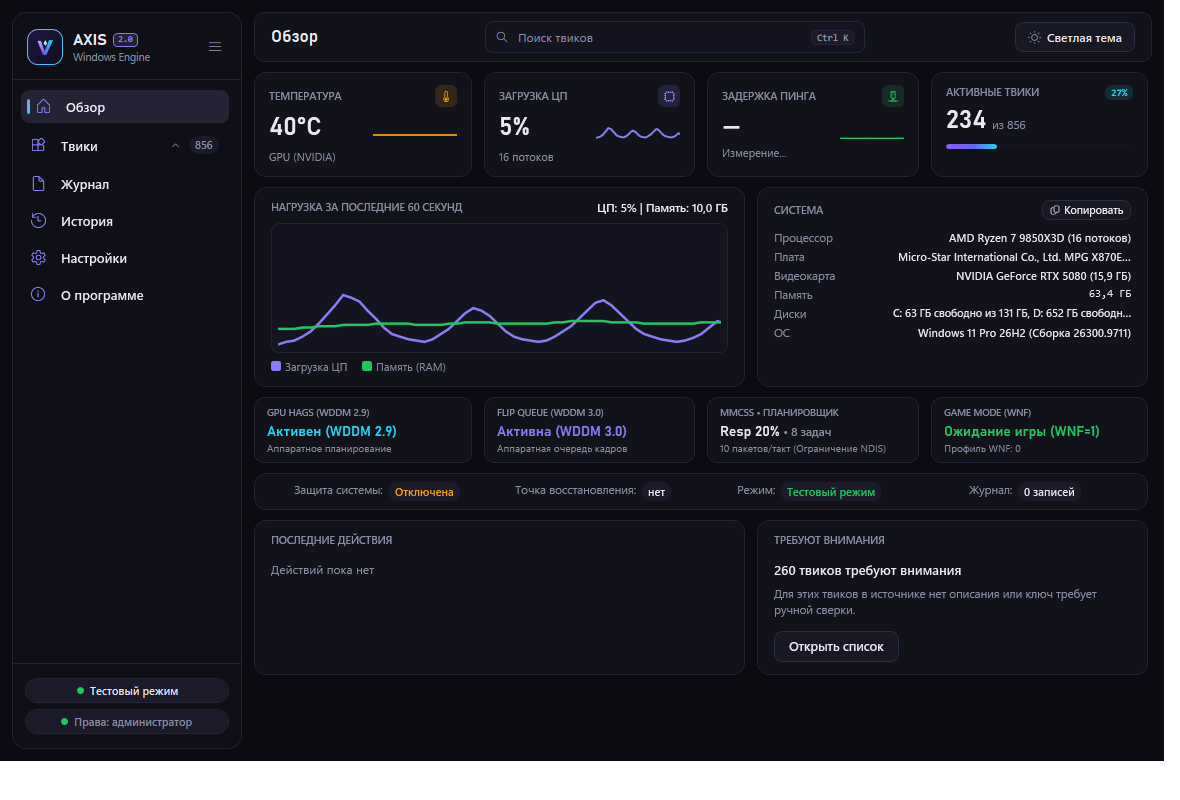
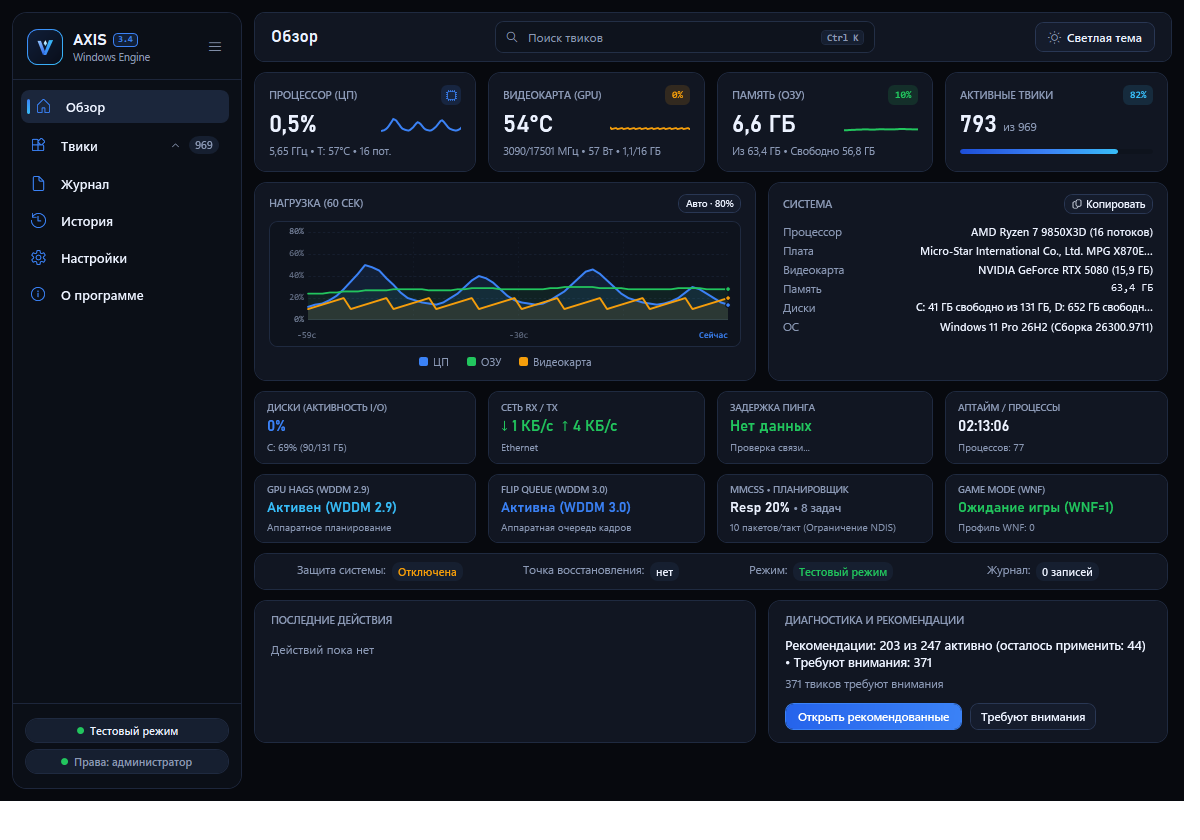
docs(v3.4.0): add 2026 Bento DESIGN_SYSTEM.md, sync README/AGENTS/CHANGELOG/PROJECT_STATE & refresh UI screenshots

diff --git a/README.ru.md b/README.ru.md
@@ -2,10 +2,10 @@
 
 [English](README.md) | [Русский](README.ru.md)
 
-[![Release: v3.3.0](https://img.shields.io/badge/Release-v3.3.0-2563eb.svg)](https://github.com/Vektor010/axis/releases)
-[![Tests: 8039 PASS](https://img.shields.io/badge/Tests-8039%20PASS-22c55e.svg)](tests/)
-[![Tweaks: 888](https://img.shields.io/badge/Tweaks-888-3b82f6.svg)](data/tweaks.json)
-[![Binary: Clean 1.40 MB](https://img.shields.io/badge/Binary-1.40%20MB-38bdf8.svg)](dist/Axis.exe)
+[![Release: v3.4.0](https://img.shields.io/badge/Release-v3.4.0-2563eb.svg)](https://github.com/Vektor010/axis/releases)
+[![Tests: 8852 PASS](https://img.shields.io/badge/Tests-8852%20PASS-22c55e.svg)](tests/)
+[![Tweaks: 969](https://img.shields.io/badge/Tweaks-969-3b82f6.svg)](data/tweaks.json)
+[![Binary: Clean 1.55 MB](https://img.shields.io/badge/Binary-1.55%20MB-38bdf8.svg)](dist/Axis.exe)
 [![License: MIT](https://img.shields.io/badge/License-MIT-blue.svg)](LICENSE)
 
 > **AXIS** — современный, автономный соревновательный оптимизатор ядра, видеоподсистемы (WDDM/NVML), сетевого стека (TCP BBR2) и приватности Windows 10/11.
@@ -52,22 +52,22 @@
 
 ---
 
-## 🧭 Каталог оптимизаций AXIS (856 параметров в 12 категориях)
+## 🧭 Каталог оптимизаций AXIS (969 параметров в 12 категориях)
 
 | Категория | Количество | Что оптимизирует |
 | :--- | :---: | :--- |
-| ⚙ **Система** | 193 | Приоритезация игровых задач (MMCSS), разгрузка шедулера, снижение лагов ядра Windows. |
-| 🔒 **Конфиденциальность** | 199 | Отключение фоновой телеметрии, диагностических отчётов, маяков и скрытого сбора данных. |
-| 🛡 **Безопасность** | 140 | Изоляция системных процессов, динамическая блокировка, тонкая настройка Защитника Windows. |
-| 📁 **Проводник** | 83 | Компактный вид папок, удаление ненужных пунктов контекстного меню, быстрый поиск. |
-| 🌐 **Сеть и Интернет** | 79 | Алгоритмы TCP BBR2/CUBIC, отключение задержки Nagle, мгновенный сброс кэша DNS, RSS/RSC. |
-| 🖱 **Периферия и ввод** | 61 | Нулевой инпут-лаг, прямое считывание 1:1 для мыши и клавиатуры, оптимизация Logitech G HUB. |
-| ⚡ **Электропитание** | 46 | Отключение скрытой парковки ядер, схема Ultimate Performance, прецизионные таймеры. |
-| 🗑 **Очистка системы** | 16 | Экспресс-очистка временных файлов, кэша шейдеров DirectX, корзины и истории сети. |
-| 🎮 **Графика NVIDIA** | 14 | Управление D3D/DXGI Flip Queue, запуск панели NVIDIA строго по требованию. |
-| 🕹 **Клиент Steam** | 8 | Отключение встроенного веб-хелпера CEF, фонового аппаратного H.264 и автозапуска overlay. |
-| 🧠 **Аффинити ядер ЦП** | 5 | Изоляция Core 0 для системных прерываний, устранение микрофризов и просадок 1% Low FPS. |
-| 🛠 **Разное (Misc/RTSS)** | 12 | Отключение фонового автозапуска RivaTuner Statistics Server (RTSS), системные твики. |
+| ⚙ **Система** | 231 | Планировщик MMCSS, службы/драйверы (`57`), задачи планировщика (`18` через COM), задержки DPC. |
+| 🔒 **Конфиденциальность** | 211 | Отключение фоновой телеметрии, диагностических отчётов, маяков и скрытого сбора данных. |
+| 🛡 **Безопасность** | 147 | Изоляция системных процессов, динамическая блокировка, тонкая настройка Защитника Windows. |
+| 📁 **Проводник** | 88 | Компактный вид папок, удаление ненужных пунктов контекстного меню, быстрый поиск. |
+| 🌐 **Сеть и Интернет** | 94 | Алгоритмы TCP BBR2/CUBIC, отключение задержки Nagle, шифрованный DNS, отвязка `ms_tcpip6`, RSS/RSC. |
+| 🖱 **Периферия и ввод** | 73 | Нулевой инпут-лаг, прямое считывание 1:1 для мыши и клавиатуры, оптимизация Logitech G HUB. |
+| ⚡ **Электропитание** | 51 | Отключение парковки ядер, схема Noverse High Performance, отключение энергосбережения NIC/Storage. |
+| 🗑 **Очистка системы** | 16 | Экспресс-очистка временных файлов, кэша шейдеров DirectX, корзины и журналов. |
+| 🎮 **Графика NVIDIA** | 16 | Профиль NV-Minimal DRS (`nvapi64.dll`), управление D3D/DXGI Flip Queue, NVCPL по требованию. |
+| 🕹 **Клиент Steam** | 18 | Отключение веб-хелпера CEF, фоновой записи, твики `localconfig.vdf` и автозапуска. |
+| 🧠 **Аффинити ядер ЦП** | 5 | Изоляция Core 0 для системных прерываний и перераспределение IRQ. |
+| 🛠 **Разное (Misc/App)** | 19 | Телеметрия и автозапуск фоновых утилит (`RTSS`, `Spotify`, `VS Code`, `Brave`, `SteelSeries`). |
 
 ---
 
@@ -88,12 +88,12 @@
   ```
   *Компилирует флагманский бинарник `dist\Axis.exe` и консольный тест-раннер `dist\Tests.exe`.*
 
-- **Автоматизированное тестирование (7760 тестов, 13 сьюитов)**:
+- **Автоматизированное тестирование (8852 тестов, все сьюиты)**:
   ```cmd
   dist\Tests.exe
   ```
 
-- **Комплексная верификация (AST, база 856 твиков, SHA-256 embed parity)**:
+- **Комплексная верификация (AST, база 969 твиков, SHA-256 embed parity)**:
   ```powershell
   powershell -ExecutionPolicy Bypass -File .\verify-all.ps1
   ```
@@ -106,7 +106,7 @@
 
 | Раздел | Документы | Описание |
 | :--- | :--- | :--- |
-| **Архитектура** | [Архитектура](docs/architecture/ARCHITECTURE.md) • [Архитектурные решения (ADR)](docs/architecture/DECISIONS.md) | Модель изоляции `state.json`, подсистемы WDDM/MMCSS, стек WPF |
+| **Архитектура и Дизайн** | [Дизайн-система 2026](docs/architecture/DESIGN_SYSTEM.md) • [Архитектура](docs/architecture/ARCHITECTURE.md) • [Архитектурные решения (ADR)](docs/architecture/DECISIONS.md) | Палитры и токены 2026, сетка Bento, правила осциллографа, изоляция `state.json`, стек WPF |
 | **Разработка** | [Разработка и сборка](docs/development/DEVELOPMENT.md) • [Руководство контрибьютора](docs/development/CONTRIBUTING.md) | Требования к C# 5.0, команды сборки и стандарты PR |
 | **Проект** | [Текущее состояние](docs/project/PROJECT_STATE.md) • [История изменений](docs/project/CHANGELOG.md) • [Планы развития](docs/project/ROADMAP.md) • [Известные проблемы](docs/project/KNOWN_ISSUES.md) | Операционные метрики, чейнджлог и задокументированные ограничения |
 | **Безопасность** | [Политика безопасности](docs/security/SECURITY.md) | Стандарты безопасного изменения реестра и гарантии отката |

diff --git a/docs/architecture/DESIGN_SYSTEM.md b/docs/architecture/DESIGN_SYSTEM.md
@@ -1,0 +1,84 @@
+# AXIS Design System 2026 (Bento UI & Telemetry Standard)
+
+> Single source of truth for contributors, UI engineers, and AI agents extending **AXIS** (`MainWindow.xaml`, `App.xaml`, `AxisDialogWindow.xaml`, `MainViewModel.cs`).
+
+---
+
+## 1. Visual Philosophy
+
+AXIS follows an **Obsidian & Cobalt Engineering Bento** aesthetic inspired by modern hardware telemetry instruments:
+- **Zero visual clutter**: Every label, badge, and divider must earn its pixels. Never duplicate live values across card headers and legends when already displayed cleanly in dedicated cards.
+- **Pixel-exact row symmetry**: Sibling Bento cards in the same grid row MUST stretch evenly (`VerticalAlignment="Stretch"`) and use fixed-row inner `<Grid>` definitions instead of `<StackPanel>`, guaranteeing identical header baselines, metric vertical centers, and footer alignment across all DPI scales.
+- **No jarring focus/outer blue borders**: Dialog windows, hero panels, Selected DataGrid rows, and cards use subtle graphite borders (`CardBorder`), reserving Cobalt Blue (`AccentBrush`) strictly for interactive emphasis, primary action CTAs, and CPU series indicators.
+- **Dual-theme readiness**: Every UI surface binds exclusively via `{DynamicResource ...}` keys populated atomically by frozen `Brush` palettes in `App.xaml.cs` (`0.10 ms` switch latency, zero memory leaks). Every newly added color token MUST be added to both `BuildDarkPalette()` and `BuildLightPalette()` and frozen with `.Freeze()`.
+
+---
+
+## 2. Color Tokens (`App.xaml.cs`)
+
+| Token Key | Dark Theme (Default) | Light Theme | Usage |
+| :--- | :--- | :--- | :--- |
+| `WindowBg` | `#07090E` | `#F1F5F9` | Root viewport canvas |
+| `SidebarBg` | `#0B0F17` | `#E8EEF7` | Navigation rail background |
+| `SidebarBorder` | `#1D263B` | `#D3DCEB` | Navigation rail separator |
+| `CardBg` | `#111622` | `#FFFFFF` | Bento cards, panels, dialogs |
+| `CardBgHover` | `#171F30` | `#F6F9FE` | Interactive hover card fill |
+| `CardBorder` | `#1F2A40` | `#D8E1EF` | Default `1px` Bento / dialog stroke |
+| `CardBorderHover` | `#32456B` | `#B6C6DF` | Hovered border emphasis |
+| `TextPrimary` | `#ECF2FF` | `#0F172A` | Primary values, headings |
+| `TextSecondary` | `#8B99B5` | `#5B6B86` | Micro-labels, subtitles, units |
+| `AccentBrush` | `#3B82F6` | `#2563EB` | Primary CTA, **CPU** series, active nav |
+| `AccentFill` | `#243B82F6` | `#1F2563EB` | Translucent accent pills / icon chips |
+| `CyanAccentBrush` | `#38BDF8` | `#0284C7` | Kernel subsystem highlights (`HAGS`, active tweak badges) |
+| `SuccessBrush` | `#22C55E` | `#16A34A` | Optimal state, **RAM** series, Network RX/TX & Ping |
+| `WarningBrush` | `#F59E0B` | `#D97706` | Caution badges, **GPU (Видеокарта)** sparkline & curve |
+| `DangerBrush` | `#EF4444` | `#DC2626` | Revert / risk / destructive warnings |
+| `SearchBg` | `#0E131D` | `#FFFFFF` | Chart canvas backing & input fields |
+| `BadgeBg` | `#161F30` | `#E7EEF9` | Neutral pill background |
+
+---
+
+## 3. Typography (`App.xaml`)
+
+| Resource Key | Font Family Stack | Strict Usage Rules |
+| :--- | :--- | :--- |
+| `FontDisplay` | `Bahnschrift, Segoe UI Variable Display, Segoe UI` | **All** primary dashboard metric numbers across every card row (`24pt` in Row 1, `15pt` in Row 3, `14pt` in Row 4) — never mix `FontMono` and `FontDisplay` for sibling metrics in the same row. |
+| `FontUI` | `Segoe UI Variable Text, Segoe UI` | Card titles (`9.5–10.5pt` `SemiBold`), descriptions, buttons, legends (`11pt`), body copy. |
+| `FontMono` | `Cascadia Mono, Consolas` | Chart Y/X axis scale ticks (`8.8–9pt`), hover inspector readouts (`10pt`), status pills (`10pt` `Bold`), system RAM totals. |
+
+---
+
+## 4. Bento Grid Architecture (`MainWindow.xaml`)
+
+Dashboard Overview (`1200×840`, `MinWidth=1000`, `MinHeight=660`) uses balanced rows where every card uses an explicit 3-row `<Grid>` (`VerticalAlignment="Stretch"`):
+
+1. **Row 1 — Primary Live Cards (4 Columns, Equal Width `*`)**:
+   - Inner layout: `<Grid>` with Row `20` (Title + right icon/badge `Height="20"`), Row `38` (`FontDisplay 24pt` main metric + sparkline `Width="80" Height="26"`), Row `16` (`10.5pt` secondary status or `ProgressBar`).
+   - Cards: **ПРОЦЕССОР (ЦП)** (`AccentBrush`), **ВИДЕОКАРТА (GPU)** (`WarningBrush`), **ПАМЯТЬ (ОЗУ)** (`SuccessBrush`), **АКТИВНЫЕ ТВИКИ** (`CyanAccentBrush` progress bar).
+2. **Row 2 — Oscilloscope Chart + System Passport (`1.25*` Left / `*` Right)**:
+   - Both `<Border>` panels use `VerticalAlignment="Stretch"` so bottom borders align cleanly with zero empty gap under System specs.
+3. **Row 3 — Secondary Sensors (4 Columns `*`, Unified `FontDisplay 15pt`)**:
+   - Inner layout: Row `14` (`9.5pt SemiBold`), Row `24` (`FontDisplay 15pt SemiBold`), Row `15` (`10pt`).
+   - Cards: **ДИСКИ (АКТИВНОСТЬ I/O)**, **СЕТЬ RX / TX**, **ЗАДЕРЖКА ПИНГА** (sparkline `Height="18"`), **АПТАЙМ / ПРОЦЕССЫ**.
+4. **Row 4 — Native Kernel Subsystems (4 Columns `*`)**:
+   - Inner layout: Row `14`, Row `22` (`FontDisplay 14pt SemiBold`), Row `15`.
+   - Cards: **GPU HAGS (WDDM 2.9)**, **FLIP QUEUE (WDDM 3.0)**, **MMCSS • ПЛАНИРОВЩИК**, **GAME MODE (WNF)**.
+
+---
+
+## 5. Telemetry Oscilloscope Standard (`НАГРУЗКА (60 СЕК)`)
+
+1. **Zero-Lag Right-to-Left Fixed-Slot Conveyor**:
+   - Window fixed at `ChartSlotCount = 120` samples (`0.5s` default live cadence = `60s` window).
+   - New points enter cleanly from the right edge (`Сейчас`) with constant step spacing `stepX`, never horizontally stretching or compressing historical spikes.
+   - Avoid software-composited `OpacityMask` shaders on polygons; render lightweight frozen `PointCollection` polylines + `0.08–0.11` opacity area polygons for smooth 60 FPS updates.
+2. **Adaptive Y-Axis Scale (`Auto · Y%` vs `0–100%`)**:
+   - Steps strictly divisible by 4 (`[12, 16, 20, 40, 60, 80, 100]`) so all 4 grid quarters (`25%`, `50%`, `75%`, `100%`) yield clean integers with zero decimals.
+   - Left Y-axis labels occupy `34px` gutter cleanly aligned to `ChartPlotTop = 8`, `ChartPlotBottom = 96` (`usableH = 88`, `22px` grid step), leaving `24px` bottom strip for `-60с` / `-30с` / `Сейчас` without overlapping `0%`.
+3. **Strict Series Color & Localization Consistency**:
+   - Legend is horizontally centered under the chart (`HorizontalAlignment="Center"`) in unified Russian:
+     - **ЦП** → `AccentBrush` (Blue)
+     - **ОЗУ** → `SuccessBrush` (Green)
+     - **Видеокарта** → `WarningBrush` (Amber/Orange)
+4. **Single-Series Hover Crosshair**:
+   - `TrySampleChartAtX` snaps cursor X to sample index and identifies the **nearest vertical curve** to cursor Y, displaying only 1 highlighted dot + 1 concise badge tinted to that curve's brush (`ЦП · ...%`, `ОЗУ · ...% (... ГБ)`, or `Видеокарта · ...%`). `MouseMove` short-circuits whenever `(sampleIdx, seriesKey)` has not changed.

diff --git a/README.md b/README.md
@@ -2,10 +2,10 @@
 
 [English](README.md) | [Русский](README.ru.md)
 
-[![Release: v3.3.0](https://img.shields.io/badge/Release-v3.3.0-2563eb.svg)](https://github.com/Vektor010/axis/releases)
-[![Tests: 8039 PASS](https://img.shields.io/badge/Tests-8039%20PASS-22c55e.svg)](tests/)
-[![Tweaks: 888](https://img.shields.io/badge/Tweaks-888-3b82f6.svg)](data/tweaks.json)
-[![Binary: Clean 1.40 MB](https://img.shields.io/badge/Binary-1.40%20MB-38bdf8.svg)](dist/Axis.exe)
+[![Release: v3.4.0](https://img.shields.io/badge/Release-v3.4.0-2563eb.svg)](https://github.com/Vektor010/axis/releases)
+[![Tests: 8852 PASS](https://img.shields.io/badge/Tests-8852%20PASS-22c55e.svg)](tests/)
+[![Tweaks: 969](https://img.shields.io/badge/Tweaks-969-3b82f6.svg)](data/tweaks.json)
+[![Binary: Clean 1.55 MB](https://img.shields.io/badge/Binary-1.55%20MB-38bdf8.svg)](dist/Axis.exe)
 [![License: MIT](https://img.shields.io/badge/License-MIT-blue.svg)](LICENSE)
 
 > **AXIS** is a high-performance, standalone Windows 10/11 optimization suite designed for competitive esports players, system engineers, and enthusiasts.
@@ -51,22 +51,22 @@
 
 ---
 
-## 🧭 Tweak Catalog (856 Parameters Across 12 Categories)
+## 🧭 Tweak Catalog (969 Parameters Across 12 Categories)
 
 | Category | Count | Focus Area |
 | :--- | :---: | :--- |
-| ⚙ **System** | 193 | Multimedia Class Scheduler (MMCSS), scheduler quantum tuning, DPC latency. |
-| 🔒 **Privacy** | 199 | Diagnostic telemetry, feedback hub, activity history, and background beacons. |
-| 🛡 **Security** | 140 | Process isolation, dynamic lock, and Windows Defender tuning. |
-| 📁 **File Explorer** | 83 | Responsive shell layout, context menu simplification, folder view optimizations. |
-| 🌐 **Network & Internet** | 79 | TCP BBR2/CUBIC congestion providers, Nagle algorithm disabling, DNS cache flush, RSS/RSC. |
-| 🖱 **Peripherals & Input** | 61 | 1:1 raw mouse input, pointer precision curve normalization, HID input latency. |
-| ⚡ **Power Management** | 46 | Core unparking, Ultimate Performance overlay, precision timer resolution. |
+| ⚙ **System** | 231 | MMCSS scheduler tuning, services/drivers (`57`), scheduled tasks (`18` via COM), DPC latency. |
+| 🔒 **Privacy** | 211 | Diagnostic telemetry, feedback hub, activity history, and background beacons. |
+| 🛡 **Security** | 147 | Process isolation, UAC/SmartScreen, and Windows Defender tuning. |
+| 📁 **File Explorer** | 88 | Responsive shell layout, context menu simplification, folder view optimizations. |
+| 🌐 **Network & Internet** | 94 | TCP BBR2/CUBIC congestion providers, Nagle disabling, DNS encryption, RSS/RSC. |
+| 🖱 **Peripherals & Input** | 73 | 1:1 raw mouse input, pointer precision curve normalization, HID input latency. |
+| ⚡ **Power Management** | 51 | Core unparking, High/Ultimate Performance power plans, NIC power saving removal. |
 | 🗑 **System Cleanup** | 16 | Temporary caches, DirectX shader cache, crash dump purging. |
-| 🎮 **NVIDIA Graphics** | 14 | Low latency mode, DXGI flip queue sizing, on-demand NVCPL daemon control. |
-| 🕹 **Steam Platform** | 8 | Disabling Chromium Embedded Framework (CEF) bloat, shader background processing. |
+| 🎮 **NVIDIA Graphics** | 16 | Low latency mode, NV-Minimal Base Profile DRS (`nvapi64.dll`), on-demand NVCPL. |
+| 🕹 **Steam Platform** | 18 | Disabling CEF webhelper bloat, `localconfig.vdf` optimizations, Dual-Registry autostart. |
 | 🧠 **CPU Affinities** | 5 | Dedicated core allocation, interrupt redirection away from Core 0. |
-| 🛠 **Miscellaneous** | 12 | Background service autostart management (including RivaTuner Statistics Server). |
+| 🛠 **Miscellaneous** | 19 | Background app telemetry & startup (`Spotify`, `VS Code`, `RTSS`, `Brave`, `Logitech`, `SteelSeries`). |
 
 ---
 
@@ -110,7 +110,7 @@ The build pipeline performs:
 1. Native compilation of `dist/Axis.exe` and test runner `dist/Tests.exe`.
 2. AST syntax check across all 52 production scripts (`verify-all.ps1`).
 3. SHA-256 byte-for-byte verification of embedded `tweaks.json`.
-4. Execution of all **7,760 unit and integration tests** (13 test suites).
+4. Execution of all **8,852 unit and integration tests** (`Tests.exe`) + deep `969`-tweak Noverse audit.
 
 ---
 
@@ -120,7 +120,7 @@ Detailed technical documentation is organized in [`docs/`](docs/):
 
 | Category | Documents | Description |
 | :--- | :--- | :--- |
-| **Architecture** | [Architecture](docs/architecture/ARCHITECTURE.md) • [Decisions](docs/architecture/DECISIONS.md) | Component model, state isolation, and ADRs |
+| **Architecture & Design** | [Design System 2026](docs/architecture/DESIGN_SYSTEM.md) • [Architecture](docs/architecture/ARCHITECTURE.md) • [Decisions](docs/architecture/DECISIONS.md) | 2026 Bento color tokens, uniform card grids, oscilloscope chart rules, state isolation, ADRs |
 | **Development** | [Development](docs/development/DEVELOPMENT.md) • [Contributing](docs/development/CONTRIBUTING.md) | Compiler prerequisites, build instructions, and guidelines |
 | **Project** | [Project State](docs/project/PROJECT_STATE.md) • [Changelog](docs/project/CHANGELOG.md) • [Roadmap](docs/project/ROADMAP.md) • [Known Issues](docs/project/KNOWN_ISSUES.md) | Operational status, releases, and documented edge cases |
 | **Security** | [Security Policy](docs/security/SECURITY.md) | Vulnerability disclosure and registry rollback guarantees |

diff --git a/AGENTS.md b/AGENTS.md
@@ -9,10 +9,11 @@ This document is the single source of truth for AI coding agents (Claude Code, C
 AXIS is an ultra-compact (~1.2 MB), zero-overhead, native Windows 10/11 optimization suite designed for competitive esports players and system engineers.
 
 **Guiding Principles**:
-1. **Never break user systems**: Every modification must have an isolated, deterministic rollback mechanism in `state.json`.
-2. **Hardware honesty**: UI switches must reflect the live registry/WinAPI value in Windows, never an assumed or mocked state.
-3. **Zero bloat**: Strictly zero external NuGet dependencies. The binary size must stay strictly below 5.0 MB.
-4. **Build once, verify all**: Every change must pass 100% of all 7,760 unit and integration tests via `.\build.ps1`.
+1. **Never break user systems**: Every modification must have an isolated, deterministic rollback mechanism in `state.json`. Guard risky or experimental flags with `apply_block` so bulk actions cannot freeze Windows.
+2. **Hardware honesty**: UI switches and sensors must reflect live registry/WinAPI/NVML values in Windows, never an assumed or mocked state.
+3. **Zero bloat**: Strictly zero external NuGet dependencies. The binary size must stay strictly below 5.0 MB (`~1.55 MB` currently).
+4. **Build once, verify all**: Every change must pass 100% of all `8,852+` unit and integration tests via `.\build.ps1`.
+5. **Follow the 2026 Design System**: Every UI change MUST adhere strictly to [`docs/architecture/DESIGN_SYSTEM.md`](docs/architecture/DESIGN_SYSTEM.md) (pixel-equal Bento row heights, 3-row card Grids, unified `FontDisplay` metrics, adaptive Y-axis ticks, clean centered Russian legends).
 
 ---
 
@@ -53,6 +54,7 @@ All project documentation is organized in [`docs/`](docs/) and visual assets in 
 | Domain | File Path | Scope & Purpose |
 | :--- | :--- | :--- |
 | **Architecture** | [`docs/architecture/ARCHITECTURE.md`](docs/architecture/ARCHITECTURE.md) | Component model, state isolation, registry store abstraction, MVVM patterns |
+| **Design System** | [`docs/architecture/DESIGN_SYSTEM.md`](docs/architecture/DESIGN_SYSTEM.md) | 2026 Bento color tokens, typography rules, row grids, 60s oscilloscope telemetry spec |
 | **Decisions (ADR)** | [`docs/architecture/DECISIONS.md`](docs/architecture/DECISIONS.md) | Architectural decision records (C# 5.0, Frozen Brushes, WNF, JSON state) |
 | **Development** | [`docs/development/DEVELOPMENT.md`](docs/development/DEVELOPMENT.md) | Compiler setup, MSBuild paths, build & test CLI commands |
 | **Contributing** | [`docs/development/CONTRIBUTING.md`](docs/development/CONTRIBUTING.md) | Code style, commit rules, pull request checklist |

diff --git a/docs/project/CHANGELOG.md b/docs/project/CHANGELOG.md
@@ -5,6 +5,22 @@ All notable changes to AXIS will be documented in this file.
 The format is based on [Keep a Changelog](https://keepachangelog.com/en/1.0.0/),
 and this project adheres to [Semantic Versioning](https://semver.org/spec/v2.0.0.html).
 
+## [3.4.0] - 2026-11-27
+
+### 2026 Bento Telemetry Redesign, 969 Noverse Tweaks (Services + Scheduled Tasks) & Freeze Protection
+- **2026 Bento Design System (`docs/architecture/DESIGN_SYSTEM.md`, `MainWindow.xaml`)**:
+  - Standardized all dashboard rows on equal-height (`VerticalAlignment="Stretch"`) 3-row `<Grid>` cards (`20/38/16`, `14/24/15`, `14/22/15`) and unified `FontDisplay` across primary metrics, network RX/TX, ping latency, and uptime.
+  - Replaced mixed/cluttered legend with clean centered Russian legend (`ЦП`, `ОЗУ`, `Видеокарта`), equalized chart and System card heights, and removed redundant header/footer text.
+- **Zero-Lag 60s Oscilloscope Telemetry (`MainViewModel.cs`, `SystemInfoService.cs`)**:
+  - Instant startup telemetry snapshot (`CollectInstantStartupSnapshot`) eliminating dummy initial zeros on Frame 0, plus captured `_uiDispatcher` for reliable background `0.5s` live ticks.
+  - Fixed-slot 120-sample right-to-left conveyor (`Сейчас` anchored right) with adaptive 4-divisible Y-axis scale (`12/16/20/40/60/80/100%` toggleable vs `0–100%`), orange `WarningBrush` GPU curve color, and single-curve mouse hover inspector (`ЦП · ...%`, `ОЗУ · ...%`, `Видеокарта · ...%`).
+  - Native NVML GPU load/clocks/power/VRAM, `% Processor Utility` CPU load, effective boost MHz, smart CPU temp cascade (Afterburner/LHM/OHM/ACPI), and non-blocking ICMP ping.
+- **Full Noverse Catalog Expansion (`969` tweaks)**:
+  - Integrated `57` Windows services/drivers (`disable-services-drivers.md`), `18` Scheduled Task groups (`disable-scheduled-tasks.md` via COM `Schedule.Service`), and missing Noverse parameters with OS existence checks (`Unavailable` when absent).
+- **System Stability & Freeze Guard**:
+  - Enforced `apply_block` exclusion in `IsEligibleForContextBatchApply`, blocked 13 freeze-risk DWM/DXG/kernel tweaks from bulk auto-apply, and fixed signed `REG_DWORD`/`REG_QWORD` `>= 0x80000000` overflow in `JournalManager.ExportRegBackup`.
+- **Verification**: `8,852` assertions PASS (`0` FAIL), `969` tweaks audited, `dist/Axis.exe` `1.55 MB`.
+
 ## [3.3.0] - 2026-11-26
 
 ### Responsive 1s Dashboard Telemetry, Accurate Network RX/TX, Smooth Area Charts & Journal Fixes

diff --git a/docs/project/PROJECT_STATE.md b/docs/project/PROJECT_STATE.md
@@ -1,8 +1,8 @@
 # PROJECT_STATE.md — Current Operational State
 
-**Last Updated**: 2026-11-26  
-**Version**: v3.3.0 (Responsive 1s Dashboard Telemetry, GetIPStatistics Network Rate, Area Charts & Historical Journal Fix)  
-**Binary Output**: `dist/Axis.exe` (1.40 MB, standalone x64, 888 tweaks, 216 curated recommended, 8,039 PASS)
+**Last Updated**: 2026-11-27  
+**Version**: v3.4.0 (2026 Bento Telemetry Design System, Instant Frame-0 Dashboard, 969 Tweaks incl. Services & Scheduled Tasks, Freeze Guard)  
+**Binary Output**: `dist/Axis.exe` (1.55 MB, standalone x64, 969 tweaks, 247 curated recommended, 8,852 PASS)
 
 ---
 
@@ -71,10 +71,10 @@
 | Suite / Check | Assertions | Result | Status |
 | :--- | :---: | :---: | :---: |
 | **PowerShell AST Syntax** | 52 scripts | 52 PASS / 0 FAIL | **PASS** |
-| **Tweak Definition Audit** | 856 tweaks | 856 PASS / 0 FAIL | **PASS** |
+| **Tweak Definition Audit** | 969 tweaks | 969 PASS / 0 FAIL | **PASS** |
 | **Embedded tweaks.json Parity** | SHA-256 | Exact Match | **PASS** |
-| **Executable Size Limit** | 1.22 MB (< 5.0 MB) | 1,249.5 KB | **PASS** |
-| **Automated Unit & Integration Tests** | 14 test suites | **7,793 PASS / 0 FAIL** | **PASS** |
+| **Executable Size Limit** | 1.55 MB (< 5.0 MB) | 1,590.5 KB | **PASS** |
+| **Automated Unit & Integration Tests** | 16+ test suites | **8,852 PASS / 0 FAIL** | **PASS** |
 | **Theme Toggle Latency Benchmark** | 30 cycles | Median: 0.10 ms, P95: 2.67 ms | **PASS** |
 
 ---
